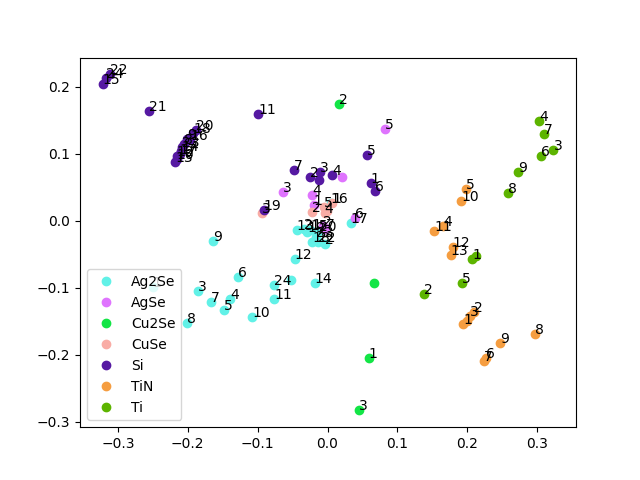
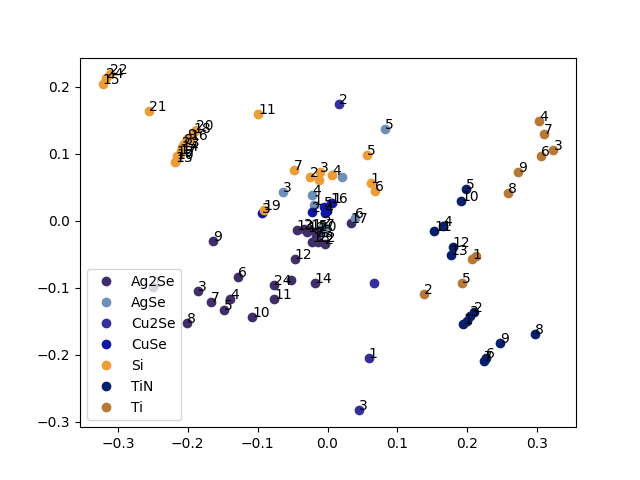
Auto stash before merge of "master" and "origin/master"

diff --git a/project/code/GeneralFunctions.py b/project/code/GeneralFunctions.py
@@ -84,6 +84,59 @@ def plot(labels, X):
     plt.legend()
     return plt
 
+
+def create_dictionary2(labels):
+    """
+
+    :param labels: labels of the samples
+    :return: dictonary with index of every label
+    """
+    d = {}
+
+    i = 0
+    for l in labels:
+        if l:
+            if l not in d:
+                d[l] = [i]
+            else:
+                lista = d[l]
+                lista.append(i)
+                d[l] = lista
+        i += 1
+
+    return d
+
+def plot2(labels, X):
+    """
+
+    :param label_dict: dictonary with index of every label
+    :param X: X after Dimentinality reduction
+    :param color_dict:
+    """
+
+    label_dict = create_dictionary2(labels)
+
+    for k in label_dict:
+        col = randomColor()
+        label = k
+
+        flag = 0
+        cont = 0
+        for j in label_dict[k]:
+            if flag == 0:
+                plt.plot(X[j - 1, 0], X[j - 1, 1], 'o', c=col, label=label)
+                flag = 1
+            else:
+
+                plt.plot(X[j - 1, 0], X[j - 1, 1], 'o', c=col)
+                plt.annotate(str(cont), xy=(X[j - 1, 0], X[j - 1, 1]))
+
+            cont += 1
+
+    plt.legend()
+    return plt
+
+
 def plot3d(labels, X):
 
     label_dict = create_dictionary(labels)

diff --git a/project/code/clustering/k_means.py b/project/code/clustering/k_means.py
@@ -1,0 +1,39 @@
+from project.code import GeneralFunctions as fun
+from sklearn.cluster import KMeans
+import numpy as np
+from sklearn.manifold import MDS
+
+class Kmeans:
+
+    def __init__(self):
+        self.path_to_file = 'project/resources/'
+        self.path_to_results = 'project/results/'
+        self.currentFile = 'DM  - D_PP - p_min 3 - delta 0.5 - q1 -5 - q2 -0.5.csv'
+        self.clusters = 7
+
+    def run(self):
+        mat, labels = fun.readMatrix(self.path_to_file + self.currentFile)
+        mat = np.array(mat, dtype=np.float64)
+
+        kmeans = KMeans(n_clusters=self.clusters).fit(mat)
+        centroids = kmeans.cluster_centers_
+
+        d = {}
+        for i in range(self.clusters):
+            d[i] = 0
+        for k in kmeans.labels_:
+            d[k] += 1
+
+        seed = np.random.RandomState(seed=3)
+        embedding = MDS(n_components=2, dissimilarity='precomputed', random_state=seed)
+
+        X_transformed = embedding.fit_transform(mat)
+
+        plt = fun.plot2(kmeans.labels_, X_transformed)
+        plt.savefig(self.path_to_results + 'mds_kmeans.png')
+        print('Error: ', str(fun.error(mat, X_transformed)) + '%')
+
+
+def main():
+    kmeans = Kmeans()
+    kmeans.run()

diff --git a/project/app.py b/project/app.py
@@ -1,15 +1,25 @@
 from project.code.dimensonality_reduction import pca, t_sne, isomap, MDS
+<<<<<<< Updated upstream
 from project.code.clustering import hierarchical
+=======
+from project.code.clustering import k_means
+
+>>>>>>> Stashed changes
 
 def run(p):
     print('--- APP RUNNING ---')
     if p == 'sne':
         t_sne.main()
-    if p == 'mds':
+    elif p == 'mds':
         MDS.main()
-    if p=='pca':
+    elif p == 'pca':
         pca.main()
-    if p=='isomap':
+    elif p == 'isomap':
         isomap.main()
+<<<<<<< Updated upstream
     if p== 'hierarchical':
         hierarchical.main()
+=======
+    elif p == 'k-means':
+        k_means.main()
+>>>>>>> Stashed changes
